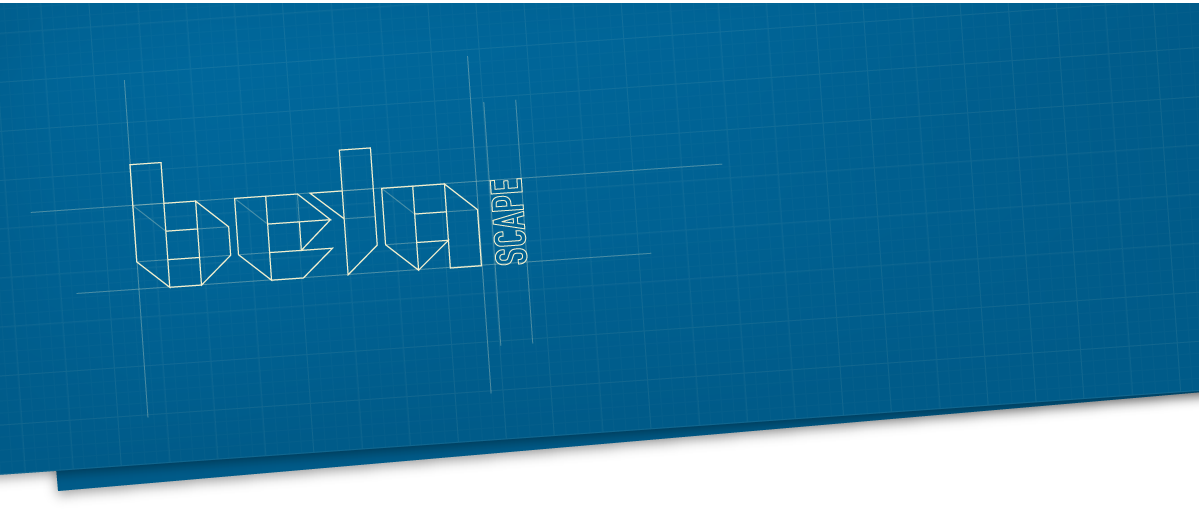
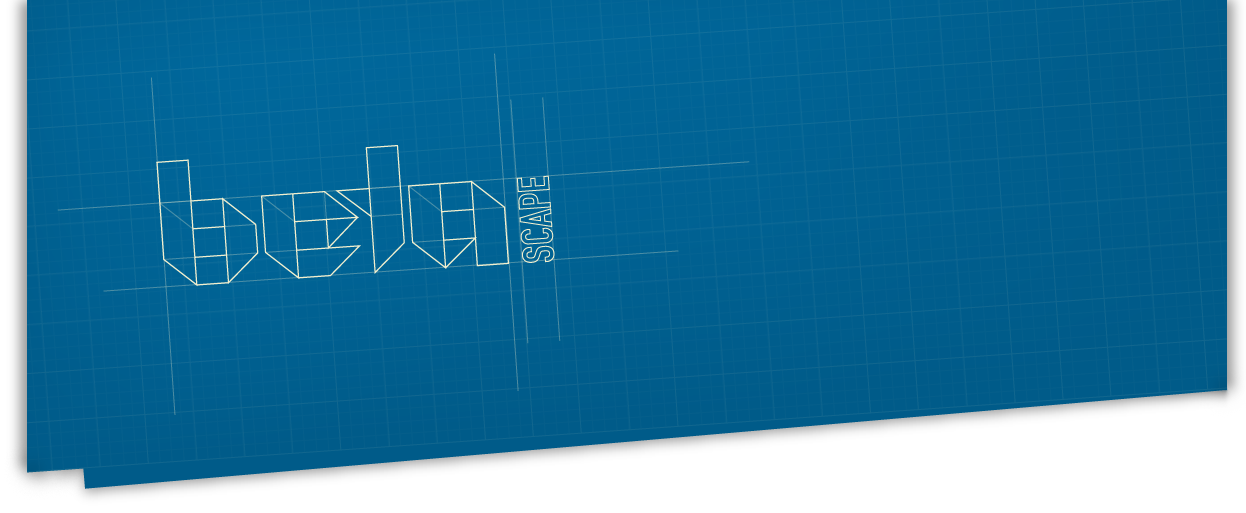
updated background stuff
I added the paper background thingy and fixed the header-bg.png so the
drop shadow doesn't cut off.

Changed region(s): [[0.0, 0.0, 1.0, 0.9669], [0.0617, 0.1871, 0.4629, 0.655], [0.4937, 0.4678, 0.5246, 0.499]]

diff --git a/css/style.min.css b/css/style.min.css
@@ -1,1 +1,5 @@
+<<<<<<< HEAD
 .clearfix{*zoom:1}.clearfix:before,.clearfix:after{display:table;content:""}.clearfix:after{clear:both}.hide-text{font:0/0 a;color:transparent;text-shadow:none;background-color:transparent;border:0}.input-block-level{display:block;width:100%;min-height:28px;-webkit-box-sizing:border-box;-moz-box-sizing:border-box;-ms-box-sizing:border-box;box-sizing:border-box}body{z-index:0;height:1200px;-webkit-font-smoothing:antialiased;background-color:#f4f3ea}.navbar{z-index:101;text-transform:uppercase;-webkit-box-shadow:0 0 8px #000}.navbar .navbar-inner{color:#cccbbe;background:#101010}.navbar .nav,.navbar .ticket-link{font-size:18px;font-weight:bold}.navbar .nav>li>a{color:#cccbbe}.navbar .ticket-link{display:block;float:right;width:300px;margin:0;margin-top:0;margin-bottom:-25px;line-height:50px;color:#fff;text-align:center;text-shadow:0 -1px 0 rgba(0,0,0,0.25);background-color:#c8602c;-webkit-border-bottom-right-radius:2px;-moz-border-bottom-right-radius:2px;border-bottom-right-radius:2px;-webkit-border-bottom-left-radius:2px;-moz-border-bottom-left-radius:2px;border-bottom-left-radius:2px;-webkit-background-clip:padding-box;-moz-background-clip:padding;background-clip:padding-box}.header-wrapper{width:100%;height:500px;background:transparent url('../img/header-bg.png') no-repeat center -10px}header{color:white}header .wrapitup{width:960px;margin:0 auto;font-size:30px;font-weight:bold;line-height:40px;color:#f2efce;-webkit-transform:rotate(-4deg);-moz-transform:rotate(-4deg);transform:rotate(-4deg)}header .wrapitup .heading{width:520px;padding:215px 0 0 430px;margin:0;text-shadow:0 -1px 0 rgba(0,0,0,0.25)}header .wrapitup .heading small{font-size:24px;font-weight:bold;line-height:40px;color:#f2efce}footer{height:120px;padding-top:32px;margin-top:32px;text-align:center;background:#101010}footer p{font-size:16px;color:#a9a9a9}footer p .space{padding:0 12px}footer p a{color:inherit}.section{margin-top:38px}.lead-callout{font-size:38px;font-weight:bold;line-height:42px;text-align:center}.callout-1{color:#33a0bc}.callout-2{color:#afc04d}.callout-3{color:#c95f38}.register-announcement a.button{display:block;width:100%;height:120px;font-size:26px;font-weight:bold;line-height:120px;color:#2a2a2a;text-align:center;cursor:url('/img/pointer-icon-big.gif'),auto;background:#52b6d0;-webkit-border-radius:6px;-webkit-border-radius:6px;-moz-border-radius:6px;-moz-border-radius:6px;border-radius:6px;border-radius:6px;-webkit-background-clip:padding-box;-moz-background-clip:padding;background-clip:padding-box}.register-announcement .description{font-size:24px;line-height:24px;color:#101010}.row .span1.plushalf{width:12.765957446%}.main .banner{min-height:115px;padding:14px;background:url('/img/banner.png') no-repeat 0 0 transparent}.main .banner p{padding:0 85px;font-size:24px;font-weight:bold;line-height:30px;color:#fff;text-align:center;text-align:center}.main .banner p small{display:block;margin-bottom:10px;font-size:14px;color:#fff;text-transform:uppercase}.row.separate{margin-top:72px}.subject{text-align:center}.subject .caption{margin-top:4px;font-size:16px}.map-callout-wrapper{z-index:99}.map-callout-wrapper .map-callout{position:absolute;z-index:99;padding:47px 0 26px 57px;margin-top:-173px;background:url('/img/map_banner.png') no-repeat scroll 0 0 transparent}.map-callout-wrapper .map-callout p{font-size:20px;font-weight:bold;line-height:24px;color:black}.sponsors{text-align:center}.sponsors p{font-size:16px;font-weight:bold;color:#a9a9a9;text-shadow:0 -1px 0 rgba(0,0,0,0.25)}.sponsors ul li{display:inline-block;padding-left:10px;margin-bottom:10px;list-style-type:none}.sponsors ul li:first{padding-left:0}.map-canvas-wrapper{width:100%;padding:12px 0;margin:48px 0;background:#fff;-webkit-box-shadow:0 5px 5px rgba(0,0,0,0.2),0 -5px 5px rgba(0,0,0,0.2);-moz-box-shadow:0 5px 5px rgba(0,0,0,0.2),0 -5px 5px rgba(0,0,0,0.2);box-shadow:0 5px 5px rgba(0,0,0,0.2),0 -5px 5px rgba(0,0,0,0.2)}.map-canvas-wrapper #map-canvas{width:100%;height:380px}
+=======
+.clearfix{*zoom:1}.clearfix:before,.clearfix:after{display:table;content:""}.clearfix:after{clear:both}.hide-text{font:0/0 a;color:transparent;text-shadow:none;background-color:transparent;border:0}.input-block-level{display:block;width:100%;min-height:28px;-webkit-box-sizing:border-box;-moz-box-sizing:border-box;-ms-box-sizing:border-box;box-sizing:border-box}body{z-index:0;height:1200px;-webkit-font-smoothing:antialiased;background-color:#f4f3ea}.navbar{z-index:101;text-transform:uppercase;-webkit-box-shadow:0 0 8px #000}.navbar .navbar-inner{color:#cccbbe;background:#101010}.navbar .nav,.navbar .ticket-link{font-size:18px;font-weight:bold}.navbar .nav>li>a{color:#cccbbe}.navbar .ticket-link{display:block;float:right;width:300px;margin:0;margin-top:0;margin-bottom:-25px;line-height:50px;color:#fff;text-align:center;text-shadow:0 -1px 0 rgba(0,0,0,0.25);background-color:#c8602c;-webkit-border-bottom-right-radius:2px;-moz-border-bottom-right-radius:2px;border-bottom-right-radius:2px;-webkit-border-bottom-left-radius:2px;-moz-border-bottom-left-radius:2px;border-bottom-left-radius:2px;-webkit-background-clip:padding-box;-moz-background-clip:padding;background-clip:padding-box}.header-wrapper{width:100%;height:500px;background:transparent url('../img/header-bg.png') no-repeat center -10px}header{color:white}header .wrapitup{width:960px;margin:0 auto;font-size:30px;font-weight:bold;line-height:40px;color:#f2efce;-webkit-transform:rotate(-4deg);-moz-transform:rotate(-4deg);transform:rotate(-4deg)}header .wrapitup .heading{width:520px;padding:215px 0 0 430px;margin:0;text-shadow:0 -1px 0 rgba(0,0,0,0.25)}header .wrapitup .heading small{font-size:24px;font-weight:bold;line-height:40px;color:#f2efce}footer{height:120px;padding-top:32px;margin-top:32px;text-align:center;background:#101010}footer p{font-size:16px;color:#a9a9a9}footer p .space{padding:0 12px}footer p a{color:inherit}.section{margin-top:38px}.lead-callout{font-size:38px;font-weight:bold;line-height:42px;text-align:center}.callout-1{color:#33a0bc}.callout-2{color:#afc04d}.callout-3{color:#c95f38}.register-announcement .button{display:block;width:100%;height:120px;font-size:26px;font-weight:bold;line-height:120px;color:#2a2a2a;text-align:center;background:#52b6d0;-webkit-border-radius:6px;-webkit-border-radius:6px;-moz-border-radius:6px;-moz-border-radius:6px;border-radius:6px;border-radius:6px;-webkit-background-clip:padding-box;-moz-background-clip:padding;background-clip:padding-box}.register-announcement .description{font-size:24px;line-height:24px;color:#101010}.row .span1.plushalf{width:10.2127659568%}.main .banner{min-height:115px;padding:14px;background:url('/img/banner.png') no-repeat 0 0 transparent}.main .banner p{padding:10px 105px 0;font-size:24px;line-height:30px;color:#fff;text-align:center;text-align:center}.main .banner p small{display:block;margin-bottom:10px;font-size:14px;color:#fff;text-transform:uppercase}.row.separate{margin-top:72px}.subject{text-align:center}.subject .caption{margin-top:4px;font-size:16px}.paper-wrapper{position:relative}.paper-wrapper .container{position:relative;z-index:99}.paper-wrapper .paper{position:absolute;top:480px;bottom:-200px;z-index:1;width:88%;background-color:rgba(255,255,255,0.5);-moz-transform:rotate(-9deg);box-shadow:5px 5px 5px rgba(0,0,0,0.2),0 -5px 5px rgba(0,0,0,0.2)}.map-canvas-wrapper{position:relative;z-index:99}.map-callout-wrapper{z-index:99}.map-callout-wrapper .map-callout{position:absolute;z-index:99;padding:47px 0 26px 57px;margin-top:-173px;background:url('/img/map_banner.png') no-repeat scroll 0 0 transparent}.map-callout-wrapper .map-callout p{font-size:20px;font-weight:bold;line-height:24px;color:black}.sponsors{text-align:center}.sponsors p{font-size:16px;font-weight:bold;color:#a9a9a9;text-shadow:0 -1px 0 rgba(0,0,0,0.25)}.sponsors ul li{display:inline-block;padding-left:10px;margin-bottom:10px;list-style-type:none}.sponsors ul li:first{padding-left:0}.map-canvas-wrapper{width:100%;padding:12px 0;margin:48px 0;background:#fff;-webkit-box-shadow:0 5px 5px rgba(0,0,0,0.2),0 -5px 5px rgba(0,0,0,0.2);-moz-box-shadow:0 5px 5px rgba(0,0,0,0.2),0 -5px 5px rgba(0,0,0,0.2);box-shadow:0 5px 5px rgba(0,0,0,0.2),0 -5px 5px rgba(0,0,0,0.2)}.map-canvas-wrapper #map-canvas{width:100%;height:380px}
+>>>>>>> updated background stuff

diff --git a/index.html b/index.html
@@ -64,74 +64,79 @@
     </div>
   </div>
 
-  <div class='container'>
-    <div class='row section'>
-      <a id='home'></a>
-      <div class='span10 offset1 lead-callout'>
-        <p>
-          This exploratorium is designed for
-          <br/>curious
-          <span class='callout-1'>artists</span>
-          and
-          <span class='callout-2'>technologists</span>
-          that prefer
-          <span class='callout-3'>hands-on learning</span>.
-        </p>
-      </div>
-    </div>
+	<div class='paper-wrapper'>
+	  <div class='container'>
+	    <div class='row section'>
+	      <a id='home'></a>
+	      <div class='span10 offset1 lead-callout'>
+	        <p>
+	          This exploratorium is designed for
+	          <br/>curious
+	          <span class='callout-1'>artists</span>
+	          and
+	          <span class='callout-2'>technologists</span>
+	          that prefer
+	          <span class='callout-3'>hands-on learning</span>.
+	        </p>
+	      </div>
+	    </div>
 
-    <div class='row section register-announcement'>
-      <div class='span4 offset1'>
-        <a href='#' class='button'>Register Now</a>
-      </div>
+	    <div class='row section register-announcement'>
+	      <div class='span4 offset1'>
+	        <a href='#' class='button'>Register Now</a>
+	      </div>
 
-      <div class='span6'>
-        <p class='description'>
-          The two-day open lab format allows attendees to learn and create
-          alongside subject matter experts and peers.  Keynotes and lightning
-          aim to inspire at the start.
-        </p>
-      </div>
-    </div>
+	      <div class='span6'>
+	        <p class='description'>
+	          The two-day open lab format allows attendees to learn and create
+	          alongside subject matter experts and peers.  Keynotes and lightning
+	          aim to inspire at the start.
+	        </p>
+	      </div>
+	    </div>
 
-    <div class='row section'>
-      <div class='span11 offset1 main'>
-        <div class="banner">
-          <p>
-            <small>This year we'd like to talk about...</small>
-            How new tools and technologies are
-            shrinking the barriers to entry to creative and technical fields
-          </p>
-        </div>
-      </div>
-    </div>
+	    <div class='row section'>
+	      <div class='span11 offset1 main'>
+	        <div class="banner">
+	          <p>
+	            <small>This year we'd like to talk about...</small>
+	            How new tools and technologies are
+	            shrinking the barriers to entry to creative and technical fields
+	          </p>
+	        </div>
+	      </div>
+	    </div>
 
-	  <div class='row separate'>
-      <div class='span1 plushalf'>
-        &nbsp;
-      </div>
-      <div class='span3'>
-        <div class='subject'>
-          <img src='img/physical-computing.png' alt='physical computing' />
-          <p class='caption'>Physical Computing</p>
-        </div>
-      </div>
+		  <div class='row separate'>
+	      <div class='span1 plushalf'>
+	        &nbsp;
+	      </div>
+	      <div class='span3'>
+	        <div class='subject'>
+	          <img src='img/physical-computing.png' alt='physical computing' />
+	          <p class='caption'>Physical Computing</p>
+	        </div>
+	      </div>
 
-	  	<div class='span3'>
-        <div class='subject'>
-          <img src='img/data-visualization.png' alt='data visualtization' />
-          <p class='caption'>Data Visualization</p>
-        </div>
-	  	</div>
+		  	<div class='span3'>
+	        <div class='subject'>
+	          <img src='img/data-visualization.png' alt='data visualtization' />
+	          <p class='caption'>Data Visualization</p>
+	        </div>
+		  	</div>
 
-	  	<div class='span3'>
-        <div class='subject'>
-          <img src='img/digital-fabrication.png' alt='digital fabrication' />
-          <p class='caption'>Digital Fabrication</p>
-        </div>
-	  	</div>
+		  	<div class='span3'>
+	        <div class='subject'>
+	          <img src='img/digital-fabrication.png' alt='digital fabrication' />
+	          <p class='caption'>Digital Fabrication</p>
+	        </div>
+		  	</div>
+		  </div>
 	  </div>
-  </div>
+		<div class='paper'>
+			&nbsp;
+		</div>
+	</div>
 
   <div class='map-canvas-wrapper container'>
     <a id='map'></a>

diff --git a/css/style.css b/css/style.css
@@ -200,9 +200,8 @@ footer p a {
 }
 
 .main .banner p {
-  padding: 0 85px;
+  padding: 10px 105px 0;
   font-size: 24px;
-  font-weight: bold;
   line-height: 30px;
   color: #ffffff;
   text-align: center;
@@ -228,6 +227,31 @@ footer p a {
 .subject .caption {
   margin-top: 4px;
   font-size: 16px;
+}
+
+.paper-wrapper {
+  position: relative;
+}
+
+.paper-wrapper .container {
+  position: relative;
+  z-index: 99;
+}
+
+.paper-wrapper .paper {
+  position: absolute;
+  top: 480px;
+  bottom: -200px;
+  z-index: 1;
+  width: 88%;
+  background-color: rgba(255, 255, 255, 0.5);
+  -moz-transform: rotate(-9deg);
+  box-shadow: 5px 5px 5px rgba(0, 0, 0, 0.2), 0 -5px 5px rgba(0, 0, 0, 0.2);
+}
+
+.map-canvas-wrapper {
+  position: relative;
+  z-index: 99;
 }
 
 .map-callout-wrapper {

diff --git a/css-src/style.less b/css-src/style.less
@@ -216,8 +216,7 @@ footer {
 				margin-bottom: 10px;
       }
 
-      padding: 0 85px;
-      font-weight: bold;
+      padding: 10px 105px 0;
       color: @white;
       text-align: center;
       font-size:   24px;
@@ -236,6 +235,29 @@ footer {
     margin-top: 4px;
     font-size: 16px;
   }
+}
+
+.paper-wrapper {
+	position: relative;
+	.container {
+		z-index: 99;
+		position: relative;
+	}
+	.paper {
+	  -moz-transform: rotate(-9deg);
+	  background-color: rgba(255, 255, 255, 0.5);
+	  bottom: -200px;
+	  box-shadow: 5px 5px 5px rgba(0, 0, 0, 0.2), 0 -5px 5px rgba(0, 0, 0, 0.2);
+	  position: absolute;
+	  top: 480px;
+	  width: 88%;
+	  z-index: 1;
+	}
+}
+
+.map-canvas-wrapper {
+	z-index: 99;
+	position: relative;
 }
 
 .map-callout-wrapper {
